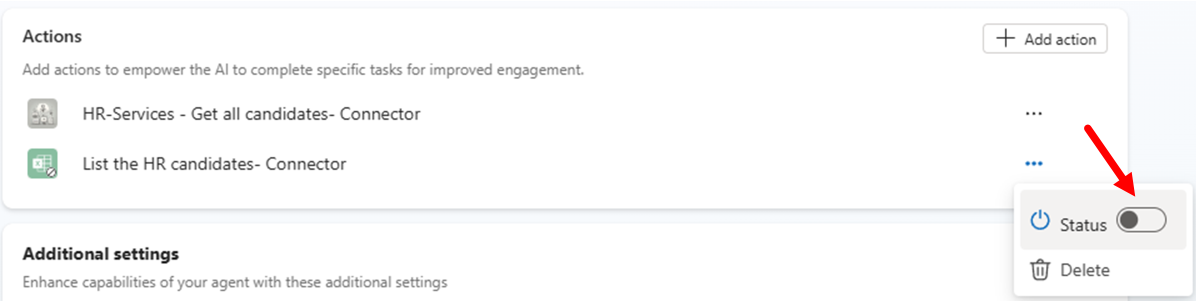
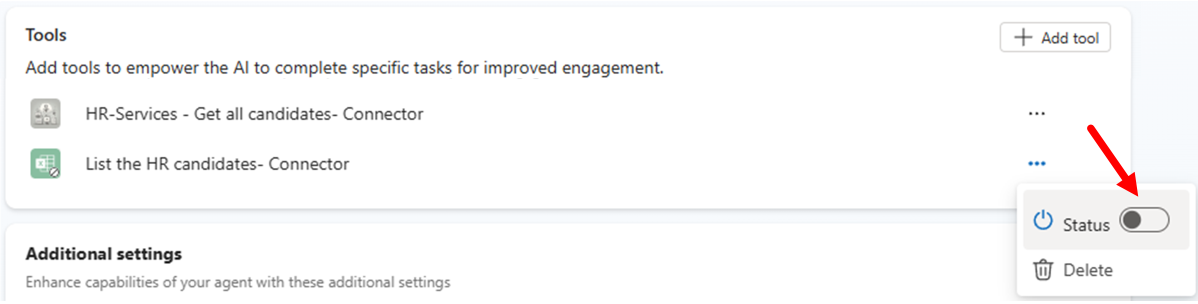
Updated action to tool in MCS4-MCS5

diff --git a/docs/pages/make/copilot-studio/04-extending-m365-copilot.md b/docs/pages/make/copilot-studio/04-extending-m365-copilot.md
@@ -8,7 +8,7 @@ In this lab you will learn:
 - How to configure a custom icon for your agent
 - How to configure knowledge sources for your agent
 - How to publish the agent in Microsoft 365 Copilot Chat
-- How to create an action for Microsoft 365 Copilot Chat
+- How to create a tool for Microsoft 365 Copilot Chat
 
 <div class="lab-intro-video">
     <div style="flex: 1; min-width: 0;">
@@ -33,7 +33,7 @@ To create a declarative agent for Microsoft 365 Copilot Chat you need to 1⃣
 
 A new section of Microsoft Copilot Studio will open. From there, you can select the **+ Add** command to create a new agent for Microsoft 365 Copilot Chat.
 
-![The interface of Microsoft Copilot Studio editing Microsoft 365 Copilot agents. The **+ Add** button is highlighted. There is also a list of pre-defined actions.](../../../assets/images/make/copilot-studio-04/create-agent-m365-copilot-chat-02.png)
+![The interface of Microsoft Copilot Studio editing Microsoft 365 Copilot agents. The **+ Add** button is highlighted. There is also a list of pre-defined tools.](../../../assets/images/make/copilot-studio-04/create-agent-m365-copilot-chat-02.png)
 
 Copilot Studio asks you to describe in natural language what the purpose of the agent is. As like as you did in [Lab MCS1](../01-first-agent){target=_blank} you can define your agent requirements in natural language, using for example the following prompts.
 
@@ -62,12 +62,12 @@ Once the agent has been created, you will see its configuration page, where you 
 
 - Details: with generic information about the agent like name, icon, description, and instructions (system prompt).
 - Knowledge: to define the various knowledge bases for the agent.
-- Actions: to define custom actions for the agent.
+- Tools: to define custom tools for the agent.
 - Additional settings: to configure whether the agent will rely on public web content or not.
 - Starter prompts: to configure up to 6 starter prompts that will be shown in the Copilot Chat when starting a new chat.
 - Publishing details: to get information about how to consume the agent, once it will be published.
 
-![The configuration page of an agent for Microsoft 365 Copilot Chat in Microsoft Copilot Studio. There are sections to define general details, knowledge bases, actions, additional settings, starter prompts, and publishing details.](../../../assets/images/make/copilot-studio-04/create-agent-m365-copilot-chat-04.png)
+![The configuration page of an agent for Microsoft 365 Copilot Chat in Microsoft Copilot Studio. There are sections to define general details, knowledge bases, tools, additional settings, starter prompts, and publishing details.](../../../assets/images/make/copilot-studio-04/create-agent-m365-copilot-chat-04.png)
 
 On the right side of the screen, you can already see a preview of the agent that you can use to test its behaviour.
 The initial setup of the agent is now ready. Move to the next steps to fine tune its settings.
@@ -159,43 +159,47 @@ The agent will provide you detailed information about the hiring procedures, bas
 
 <cc-end-step lab="mcs4" exercise="1" step="4" />
 
-## Exercise 2 : Adding an action to the agent
+## Exercise 2 : Adding a tool to the agent
 
-In this excercise you are going to add a custom action to the agent that you made in the previous exercise. In Microsoft Copilot Studio, when making agents for Microsoft 365 Copilot Chat, you can add four different types of actions:
+In this excercise you are going to add a custom tool to the agent that you made in the previous exercise. In Microsoft Copilot Studio, when making agents for Microsoft 365 Copilot Chat, you can add four different types of tools:
 
-- New prompt: allows consuming an AI action built using a prompt written in natural language.
-- New Power Automate flow: allows consuming a Power Automate flow.
-- New custom connector: allows consuming a Power Platform custom connector.
-- New REST API: allows consuming an external REST API. You can find additional details [here](https://learn.microsoft.com/en-us/microsoft-copilot-studio/agent-extend-action-rest-api){target=_blank}.
+- Prompt: allows consuming an AI tool built using a prompt written in natural language.
+- Custom connector: allows consuming a Power Platform custom connector.
+- REST API: allows consuming an external REST API. You can find additional details [here](https://learn.microsoft.com/en-us/microsoft-copilot-studio/agent-extend-action-rest-api){target=_blank}.
+- Model Context Protocol: allows consuming an MCP server and its tools.
 
-!!! information "Actions for agents"
-    You can find additional information about adding actions to agents in Copilot Studio reading the article [Use actions with custom agents (preview)](https://learn.microsoft.com/en-us/microsoft-copilot-studio/advanced-plugin-actions){target=_blank}.
+!!! information "Tools for agents"
+    You can find additional information about adding tools to agents in Copilot Studio reading the article [Add tools to custom agents](https://learn.microsoft.com/en-us/microsoft-copilot-studio/advanced-plugin-actions){target=_blank}.
 
-In this lab you are going to add an action of type `New custom connector` in order to retrieve a list of candidates from an Excel spreadsheet stored in SharePoint Online.
+In this lab you are going to add a tool of type `Custom connector` in order to retrieve a list of candidates from an Excel spreadsheet stored in SharePoint Online.
 
-### Step 1: Adding an action to an agent for Microsoft 365 Copilot
+### Step 1: Adding a tool to an agent for Microsoft 365 Copilot
 
-To add a new action, select the **+ Add action** command in the **Actions** section of the agent's configuration panel.
+To add a new tool, select the **+ Add tool** command in the **Tools** section of the agent's configuration panel.
 
-![The **Actions** section of an agent with the **+ Add action** command highlighted.](../../../assets/images/make/copilot-studio-04/action-agent-m365-copilot-chat-01.png)
+![The **Tools** section of an agent with the **+ Add tool** command highlighted.](../../../assets/images/make/copilot-studio-04/action-agent-m365-copilot-chat-01.png)
 
-A dialog window pops up allowing you to choose what kind of action to create. By default, there are some **Featured** actions like those that allow you to interact with Excel Online content or other common services. You can also create a new action from scratch, selecting the **+ New action** command and choosing between the options highlighted in the previous paragraphs.
+A dialog window pops up allowing you to choose what kind of tool to create. By default, there are some **Featured** tools like those that allow you to interact with Excel Online content or other common services. You can also create a new tool from scratch, selecting the **+ New tool** command and choosing between the options highlighted in the previous paragraphs.
 
-If you don't find the option you are looking for in the list of featured items, simply switch to the **Library** group and search by text what you are looking for.
+If you don't find the option you are looking for in the list of featured items, simply switch to the **All** group and search by text what you are looking for.
 
-To complete the current step, choose the featured action to **List rows present in a table** in the family of **Excel Online (Business)** actions. First of all, you will need to connect to the external connector simply selecting the **Next** button and proceeding with the process.
+To complete the current step, choose the featured tool **Excel Online (Business)** and then select **List rows present in a table**. First of all, you will need to connect to the external connector simply selecting the **Connection** and then **Create new connection** and proceeding with the process.
 
-![The dialog to connect to the target Power Platform connector with details about the connection, a button to move next and a button to cancel the request. There is also a back button to start over.](../../../assets/images/make/copilot-studio-03/create-action-excel-connector-03.png)
+![The dialog to connect to the target Power Platform connector with details about the connection, if any, or a button to create a new connection. There is also a back button to start over.](../../../assets/images/make/copilot-studio-03/create-action-excel-connector-03.png)
 
-Next, you get a dialog to configure the actual action. You need to provide:
+You will need to login with your account and to allow access to Excel Online (Business). Once the connection is configured, you will see a dialog with commands to **Add to agent** or **Add and configure** the tool.
 
-- Name: simply a descriptive name for the action.
-- Description: a description in natural language that will be used by generative orchestration to determine when to use your action. 
-- Authentication settings: the settings to define how the action will rely on authentication.
+![The dialog to add the actual tool to the agent. There are commands to **Add to agent** or **Add and configure** the tool. There is also a back button to start over.](../../../assets/images/make/copilot-studio-03/create-action-excel-connector-03b.png)
+
+After adding the tool, you will get the list of tools in Copilot Studio. Click on the tool that you just created to edit its settings. In the configuration panel you need to provide:
+
+- Name: simply a descriptive name for the tools.
+- Display name: a display name for the tool.
+- Description: a description in natural language that will be used by generative orchestration to determine when to use your tool. 
 - Inputs and outpus: to define the input and output arguments for the action, if any.
 - Response settings: defines how the action handles the request and response to the user.
 
-Before configuring the action, you need to prepare the Excel spreadsheet with the list of candidates.
+Before configuring the tool, you need to prepare the Excel spreadsheet with the list of candidates.
 Download a sample Excel file by selecting this [link](https://github.com/microsoft/copilot-camp/blob/main/src/make/copilot-studio/Candidates/Sample-list-of-candidates.xlsx?raw=true){target=_blank}.
 
 Upload the file to the **Documents** library of a SharePoint Teams site in the same tenant where you are making your agent with Copilot Studio. The document was generated by Microsoft 365 Copilot for the sake of having a hypothetical list of candidates.
@@ -204,20 +208,13 @@ Upload the file to the **Documents** library of a SharePoint Teams site in the s
 - Copy the name of the document library. For example : `Shared documents`
 - Copy also the name of the file. For example: `Sample-list-of-candidates.xlsx`
 
-Now go back to Microsoft Copilot Studio and finalize the action configuration.
-
-![The dialog to create the action with the Name, description and authentication configured. There are a button to **Add action** and a button to **Cancel** the process.](../../../assets/images/make/copilot-studio-03/create-action-excel-connector-04.png)
-
+Now go back to Microsoft Copilot Studio and finalize the tool configuration.
 Use the following settings:
 
 - Name: List HR candidates
 - Description: List candidates for an HR role
-- Authentication: User authentication
 
-Select the **Add action** button to save the new action. You will get the list of actions in Copilot Studio. Click on the action that you just created to edit its settings.
-
-In the dialog for editing the action, update the **Action name** to give it a more descriptive and informative name. Then select the **Inputs** tab and start configuring the input arguments.
-By default, all the mandatory input arguments have been configured so that their value will be exctracted by the `User's entire response` as you can notice in the **Identify as** property of each input argument.
+In the dialog for editing the tool, update the **Tool name** to give it a more descriptive and informative name. Then select the Inputs tab and start configuring the input arguments. By default, all the mandatory input arguments have been configured so that their value will be exctracted by the User's entire response as you can notice in the **Identify as** property of each input argument.
 
 ![The tab to configure the input arguments of the action. There is a list of arguments with specific settings for each of them.](../../../assets/images/make/copilot-studio-04/action-agent-m365-copilot-chat-02.png)
 
@@ -238,12 +235,12 @@ Now select the **Save** button in the upper right corner of the screen to save t
 
 <cc-end-step lab="mcs4" exercise="2" step="1" />
 
-### Step 2: Testing the new action
+### Step 2: Testing the new tool
 
 You are now ready to publish the updated agent and to play with it in the integrated test panel or in Microsoft Teams.
 Select the **Publish** button again, to update the publishing of the agent. Wait for the publishing to complete and then open again the direct link to the agent's app. You will see an **Update now** command instead of the **Add** that you saw in Exercise 1 - Step 4. Select the **Update now** command and wait. Once ready, go to Microsoft 365 Copilot Chat, refresh the page and start interacting with the updated agent.
 
-It is really easy to invoke the just created action simply providing to the agent a prompt like the following one:
+It is really easy to invoke the just created tool simply providing to the agent a prompt like the following one:
 
 ```txt
 Show me the list of candidates for HR with role "HR Director" or "HR Manager"
